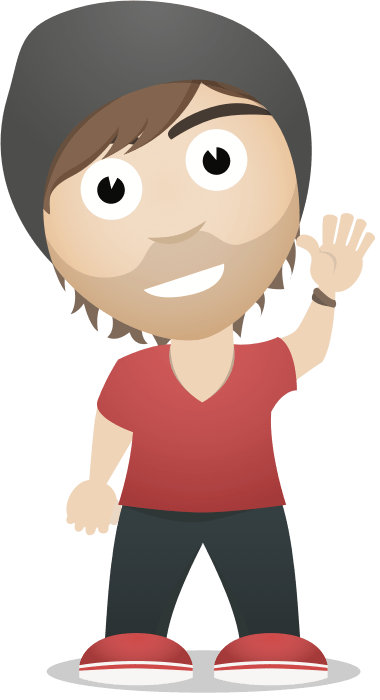
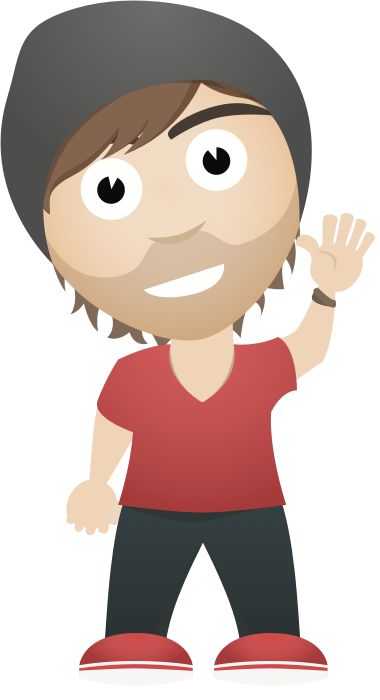
Replace character shadow with css

Changed region(s): [[0.1158, 0.93, 0.9553, 0.99]]

diff --git a/css/main.scss b/css/main.scss
@@ -169,6 +169,19 @@ a:hover, a:focus {
       opacity: 1;
     }
   }
+
+  &:before {
+    background-color: #000;
+    opacity: 0.2;
+    left: 0;
+    bottom: 0;
+    border-radius: 50%;
+    content: "";
+    display: block;
+    height: 20px;
+    position: absolute;
+    width: 100%;
+  }
 }
 
 .info {
